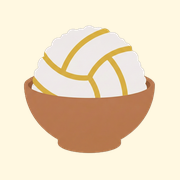
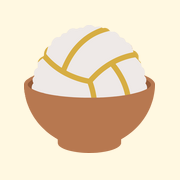
feat: 새 로고 적용 — 파비콘·OG·랠리 끝 로고 윤곽 (#4)
* feat: 새 로고 적용 — 파비콘·OG·랠리 끝 로고 윤곽

누룽지도 앱·웹(2.13.0)의 새 로고(그릇·누룽지는 그대로, 이음선 조각이 고른 배구공)로 바꾼다.

- 파비콘 32/96/192 · apple-touch 180: 예전과 같은 크기·여백으로 새 로고 PNG 에서 다시 뽑음
- og.png: 같은 구도(크림 + 누룽지 · 한 줄 소개 + 오른쪽 로고)로 HTML 에서 다시 렌더.
  원본 HTML 을 docs/og/og.html 에 남김
- index.html LOGO: 랠리 끝에 피어나는 로고 윤곽을 새 로고에서 색 영역별로 다시 추출.
  공·그릇 실루엣 크기가 예전과 같아 자리 값(LOGO_*)은 그대로

Claude-Session: https://claude.ai/code/session_019Jth2i6XR1aaqqSu7PWwxn

* copy: 한 줄 소개를 '배구, 더 많은 사람이 좋아했으면 좋겠어요'로

'생활배구에 첫 물꼬를 트는 사람'보다 하려는 일에 맞게 — 본문 마지막 답
(배구를 더 많은 사람들이 좋아해줬으면 좋겠어요)과 같은 말로 맞춘다.
OG 이미지·meta description·og:description.

Claude-Session: https://claude.ai/code/session_019Jth2i6XR1aaqqSu7PWwxn

---------

diff --git a/index.html b/index.html
@@ -4,9 +4,9 @@
   <meta charset="UTF-8">
   <meta name="viewport" content="width=device-width, initial-scale=1.0">
   <title>누룽지 — nulloongzi</title>
-  <meta name="description" content="생활배구에 첫 물꼬를 트는 사람, 누룽지. 서브부터 꽂힘까지, 인터뷰로 읽는 누룽지 — 그리고 누룽지도(배구 동호회 지도).">
+  <meta name="description" content="배구, 더 많은 사람이 좋아했으면 좋겠어요 — 누룽지. 서브부터 꽂힘까지, 인터뷰로 읽는 누룽지 — 그리고 누룽지도(배구 동호회 지도).">
   <meta property="og:title" content="누룽지의 랠리 — nulloongzi">
-  <meta property="og:description" content="서브부터 꽂힘까지, 인터뷰로 읽는 누룽지. 생활배구에 첫 물꼬를 트는 것들을 만듭니다.">
+  <meta property="og:description" content="서브부터 꽂힘까지, 인터뷰로 읽는 누룽지. 배구를 더 많은 사람이 좋아했으면 해서 만듭니다.">
   <meta property="og:url" content="https://nulloongzi.com/">
   <meta property="og:type" content="website">
   <meta property="og:image" content="https://nulloongzi.com/assets/og.png">
@@ -859,8 +859,10 @@
 
     // ── 로고: 밥그릇에 담긴 배구공 ──
     // 내가 임의로 그린 게 아니라 실제 로고 PNG 에서 색 영역별 윤곽을 뽑은 것이다.
+    // 2026-10-23 새 로고(이음선 조각이 고른 배구공)로 다시 뽑음 — 앱 레포 assets/nulloongzido logo_without bg.png.
+    // 공 = 흰 판+이음선 실루엣, 이음선 = 금색, 그릇 = 몸통+테. 그릇·공 실루엣 크기는 예전과 같아 LOGO_* 자리 값은 그대로.
     // 좌표계는 폭 1, 원점 중심, y 위가 +. 화면을 향하는 빌보드로 세운다.
-    var LOGO = {"ball":[[[-0.016,0.487],[-0.006,0.487],[0.005,0.487],[0.014,0.485],[0.023,0.482],[0.032,0.478],[0.04,0.472],[0.05,0.474],[0.059,0.476],[0.069,0.477],[0.079,0.475],[0.088,0.472],[0.096,0.467],[0.1,0.462],[0.11,0.464],[0.119,0.466],[0.129,0.464],[0.137,0.459],[0.144,0.452],[0.151,0.446],[0.15,0.438],[0.146,0.434],[0.155,0.437],[0.161,0.436],[0.171,0.436],[0.181,0.436],[0.191,0.435],[0.2,0.432],[0.208,0.427],[0.215,0.42],[0.221,0.412],[0.226,0.404],[0.231,0.396],[0.239,0.392],[0.249,0.39],[0.258,0.386],[0.265,0.381],[0.27,0.373],[0.273,0.364],[0.281,0.358],[0.29,0.354],[0.299,0.351],[0.307,0.345],[0.313,0.337],[0.309,0.333],[0.317,0.331],[0.321,0.322],[0.322,0.312],[0.325,0.306],[0.328,0.302],[0.324,0.298],[0.333,0.294],[0.341,0.29],[0.35,0.287],[0.358,0.279],[0.364,0.272],[0.368,0.263],[0.373,0.255],[0.373,0.244],[0.373,0.234],[0.373,0.224],[0.379,0.216],[0.386,0.208],[0.392,0.201],[0.392,0.19],[0.394,0.181],[0.396,0.171],[0.403,0.165],[0.411,0.158],[0.415,0.149],[0.418,0.14],[0.419,0.13],[0.419,0.12],[0.419,0.11],[0.417,0.105],[0.421,0.097],[0.426,0.09],[0.43,0.082],[0.432,0.075],[0.436,0.079],[0.435,0.072],[0.432,0.062],[0.429,0.053],[0.426,0.044],[0.43,0.036],[0.434,0.027],[0.436,0.018],[0.438,0.008],[0.434,-0.0],[0.429,-0.002],[0.423,-0.004],[0.417,-0.006],[0.41,-0.011],[0.402,-0.012],[0.395,-0.015],[0.387,-0.019],[0.381,-0.022],[0.375,-0.024],[0.368,-0.026],[0.36,-0.026],[0.353,-0.027],[0.347,-0.029],[0.34,-0.031],[0.331,-0.033],[0.323,-0.037],[0.315,-0.038],[0.307,-0.037],[0.3,-0.039],[0.291,-0.043],[0.281,-0.045],[0.271,-0.046],[0.262,-0.048],[0.252,-0.05],[0.243,-0.048],[0.235,-0.05],[0.225,-0.051],[0.217,-0.052],[0.207,-0.052],[0.199,-0.054],[0.189,-0.054],[0.18,-0.057],[0.171,-0.056],[0.161,-0.058],[0.153,-0.058],[0.142,-0.058],[0.133,-0.061],[0.124,-0.061],[0.114,-0.061],[0.103,-0.061],[0.094,-0.063],[0.085,-0.065],[0.074,-0.065],[0.064,-0.065],[0.053,-0.065],[0.046,-0.062],[0.041,-0.063],[0.031,-0.063],[0.02,-0.063],[0.011,-0.065],[0.0,-0.065],[-0.01,-0.065],[-0.02,-0.065],[-0.03,-0.063],[-0.04,-0.063],[-0.05,-0.063],[-0.061,-0.063],[-0.071,-0.063],[-0.081,-0.063],[-0.091,-0.065],[-0.1,-0.061],[-0.11,-0.061],[-0.12,-0.061],[-0.13,-0.063],[-0.138,-0.058],[-0.149,-0.058],[-0.158,-0.061],[-0.167,-0.056],[-0.177,-0.056],[-0.186,-0.056],[-0.195,-0.054],[-0.205,-0.056],[-0.213,-0.052],[-0.223,-0.053],[-0.231,-0.05],[-0.241,-0.052],[-0.247,-0.05],[-0.257,-0.049],[-0.267,-0.048],[-0.276,-0.046],[-0.286,-0.044],[-0.296,-0.042],[-0.305,-0.041],[-0.315,-0.039],[-0.325,-0.037],[-0.334,-0.035],[-0.343,-0.033],[-0.353,-0.031],[-0.359,-0.023],[-0.366,-0.016],[-0.374,-0.01],[-0.381,-0.003],[-0.389,0.003],[-0.397,0.01],[-0.404,0.018],[-0.411,0.025],[-0.419,0.032],[-0.425,0.04],[-0.43,0.048],[-0.434,0.057],[-0.436,0.066],[-0.436,0.077],[-0.433,0.085],[-0.428,0.094],[-0.422,0.101],[-0.424,0.109],[-0.425,0.119],[-0.424,0.128],[-0.421,0.138],[-0.417,0.146],[-0.411,0.154],[-0.402,0.158],[-0.396,0.165],[-0.396,0.173],[-0.396,0.184],[-0.396,0.194],[-0.396,0.204],[-0.392,0.213],[-0.388,0.222],[-0.383,0.23],[-0.376,0.237],[-0.367,0.242],[-0.362,0.241],[-0.356,0.247],[-0.347,0.25],[-0.347,0.258],[-0.347,0.269],[-0.347,0.279],[-0.344,0.288],[-0.34,0.297],[-0.336,0.305],[-0.329,0.313],[-0.321,0.32],[-0.313,0.326],[-0.304,0.328],[-0.296,0.333],[-0.292,0.342],[-0.29,0.351],[-0.288,0.361],[-0.283,0.369],[-0.277,0.377],[-0.271,0.383],[-0.263,0.39],[-0.254,0.394],[-0.245,0.396],[-0.234,0.396],[-0.225,0.398],[-0.218,0.405],[-0.214,0.414],[-0.207,0.421],[-0.198,0.424],[-0.188,0.426],[-0.179,0.428],[-0.172,0.433],[-0.167,0.441],[-0.16,0.449],[-0.153,0.455],[-0.144,0.46],[-0.135,0.462],[-0.124,0.462],[-0.114,0.46],[-0.104,0.46],[-0.096,0.46],[-0.087,0.463],[-0.078,0.466],[-0.068,0.468],[-0.059,0.466],[-0.049,0.466],[-0.041,0.473],[-0.034,0.48],[-0.025,0.485]]],"seam":[[[0.111,0.466],[0.123,0.464],[0.135,0.46],[0.144,0.452],[0.152,0.443],[0.143,0.436],[0.131,0.433],[0.12,0.43],[0.109,0.426],[0.097,0.422],[0.086,0.417],[0.075,0.413],[0.064,0.409],[0.053,0.404],[0.043,0.398],[0.033,0.392],[0.022,0.387],[0.011,0.381],[0.002,0.373],[-0.009,0.367],[-0.018,0.36],[-0.029,0.354],[-0.038,0.346],[-0.047,0.337],[-0.057,0.329],[-0.066,0.32],[-0.075,0.311],[-0.084,0.302],[-0.093,0.293],[-0.101,0.283],[-0.11,0.274],[-0.118,0.265],[-0.124,0.254],[-0.131,0.244],[-0.137,0.234],[-0.143,0.224],[-0.15,0.214],[-0.156,0.203],[-0.162,0.193],[-0.166,0.182],[-0.171,0.171],[-0.175,0.16],[-0.182,0.15],[-0.183,0.138],[-0.172,0.133],[-0.161,0.127],[-0.15,0.124],[-0.139,0.12],[-0.127,0.117],[-0.116,0.114],[-0.104,0.111],[-0.092,0.109],[-0.08,0.107],[-0.068,0.105],[-0.055,0.105],[-0.042,0.105],[-0.029,0.105],[-0.017,0.105],[-0.01,0.115],[-0.003,0.125],[0.003,0.135],[0.009,0.145],[0.016,0.156],[0.022,0.166],[0.029,0.176],[0.037,0.185],[0.046,0.195],[0.053,0.204],[0.063,0.213],[0.072,0.222],[0.081,0.23],[0.09,0.239],[0.1,0.247],[0.11,0.254],[0.12,0.262],[0.13,0.268],[0.14,0.274],[0.151,0.28],[0.161,0.286],[0.171,0.292],[0.182,0.297],[0.193,0.301],[0.204,0.306],[0.215,0.311],[0.227,0.314],[0.238,0.317],[0.25,0.32],[0.261,0.324],[0.273,0.326],[0.285,0.328],[0.297,0.33],[0.309,0.332],[0.319,0.329],[0.322,0.317],[0.324,0.305],[0.327,0.296],[0.314,0.296],[0.302,0.294],[0.29,0.292],[0.278,0.29],[0.266,0.288],[0.255,0.283],[0.243,0.281],[0.232,0.277],[0.221,0.274],[0.21,0.269],[0.199,0.264],[0.188,0.26],[0.178,0.254],[0.169,0.246],[0.177,0.237],[0.185,0.227],[0.193,0.217],[0.2,0.208],[0.206,0.197],[0.212,0.187],[0.22,0.177],[0.226,0.167],[0.232,0.157],[0.237,0.146],[0.243,0.135],[0.247,0.124],[0.252,0.113],[0.256,0.102],[0.261,0.091],[0.264,0.08],[0.269,0.069],[0.273,0.058],[0.275,0.046],[0.279,0.035],[0.281,0.023],[0.283,0.011],[0.286,-0.001],[0.288,-0.013],[0.29,-0.025],[0.29,-0.038],[0.284,-0.044],[0.272,-0.046],[0.26,-0.048],[0.254,-0.04],[0.254,-0.028],[0.252,-0.016],[0.249,-0.004],[0.247,0.008],[0.245,0.02],[0.242,0.032],[0.239,0.043],[0.235,0.055],[0.231,0.066],[0.228,0.078],[0.224,0.088],[0.219,0.099],[0.213,0.11],[0.208,0.121],[0.203,0.131],[0.198,0.142],[0.192,0.152],[0.186,0.163],[0.179,0.173],[0.172,0.183],[0.164,0.192],[0.158,0.203],[0.15,0.212],[0.142,0.222],[0.131,0.225],[0.122,0.217],[0.112,0.209],[0.103,0.2],[0.094,0.191],[0.084,0.184],[0.076,0.174],[0.067,0.165],[0.06,0.155],[0.054,0.145],[0.046,0.135],[0.039,0.125],[0.032,0.115],[0.027,0.105],[0.022,0.094],[0.025,0.084],[0.031,0.073],[0.037,0.063],[0.044,0.053],[0.048,0.042],[0.054,0.032],[0.058,0.02],[0.063,0.009],[0.067,-0.002],[0.071,-0.013],[0.074,-0.025],[0.077,-0.036],[0.08,-0.048],[0.082,-0.06],[0.09,-0.065],[0.077,-0.065],[0.064,-0.065],[0.051,-0.065],[0.044,-0.058],[0.041,-0.046],[0.039,-0.034],[0.036,-0.023],[0.033,-0.011],[0.028,-0.0],[0.023,0.011],[0.018,0.021],[0.013,0.032],[0.007,0.042],[0.001,0.053],[-0.005,0.063],[-0.014,0.071],[-0.026,0.069],[-0.038,0.069],[-0.051,0.069],[-0.064,0.069],[-0.076,0.071],[-0.089,0.071],[-0.101,0.073],[-0.113,0.075],[-0.125,0.078],[-0.136,0.082],[-0.148,0.084],[-0.159,0.088],[-0.17,0.092],[-0.181,0.097],[-0.192,0.101],[-0.203,0.107],[-0.214,0.112],[-0.224,0.118],[-0.234,0.124],[-0.245,0.13],[-0.254,0.137],[-0.265,0.144],[-0.274,0.151],[-0.284,0.159],[-0.293,0.168],[-0.303,0.175],[-0.312,0.184],[-0.321,0.194],[-0.328,0.203],[-0.336,0.213],[-0.344,0.223],[-0.351,0.232],[-0.359,0.242],[-0.354,0.249],[-0.345,0.255],[-0.347,0.267],[-0.347,0.28],[-0.343,0.285],[-0.336,0.275],[-0.33,0.264],[-0.322,0.254],[-0.315,0.245],[-0.307,0.235],[-0.3,0.225],[-0.291,0.216],[-0.281,0.207],[-0.272,0.198],[-0.263,0.19],[-0.254,0.182],[-0.244,0.174],[-0.234,0.167],[-0.224,0.16],[-0.215,0.163],[-0.21,0.174],[-0.205,0.184],[-0.201,0.195],[-0.195,0.206],[-0.19,0.217],[-0.185,0.227],[-0.178,0.238],[-0.172,0.248],[-0.166,0.258],[-0.16,0.269],[-0.153,0.278],[-0.145,0.288],[-0.138,0.298],[-0.13,0.307],[-0.122,0.317],[-0.113,0.326],[-0.104,0.335],[-0.095,0.344],[-0.086,0.353],[-0.076,0.361],[-0.067,0.37],[-0.058,0.378],[-0.048,0.385],[-0.038,0.392],[-0.028,0.399],[-0.017,0.405],[-0.008,0.413],[0.003,0.417],[0.014,0.423],[0.024,0.429],[0.035,0.434],[0.045,0.44],[0.056,0.445],[0.067,0.449],[0.078,0.453],[0.089,0.458],[0.1,0.462]],[[-0.424,0.099],[-0.424,0.097],[-0.423,0.096],[-0.421,0.094],[-0.421,0.093],[-0.42,0.091],[-0.419,0.09],[-0.418,0.089],[-0.417,0.087],[-0.417,0.086],[-0.416,0.084],[-0.414,0.083],[-0.413,0.082],[-0.412,0.081],[-0.411,0.079],[-0.409,0.078],[-0.408,0.077],[-0.407,0.076],[-0.407,0.074],[-0.406,0.073],[-0.405,0.071],[-0.403,0.07],[-0.402,0.069],[-0.401,0.068],[-0.4,0.066],[-0.398,0.065],[-0.397,0.064],[-0.396,0.062],[-0.396,0.061],[-0.395,0.059],[-0.394,0.058],[-0.392,0.057],[-0.391,0.056],[-0.39,0.054],[-0.389,0.053],[-0.387,0.052],[-0.386,0.051],[-0.385,0.049],[-0.384,0.048],[-0.382,0.047],[-0.381,0.046],[-0.38,0.044],[-0.379,0.043],[-0.377,0.042],[-0.376,0.041],[-0.375,0.039],[-0.374,0.038],[-0.372,0.037],[-0.371,0.036],[-0.37,0.034],[-0.369,0.033],[-0.367,0.032],[-0.366,0.031],[-0.365,0.029],[-0.364,0.028],[-0.362,0.027],[-0.361,0.026],[-0.36,0.024],[-0.358,0.024],[-0.357,0.023],[-0.356,0.022],[-0.354,0.021],[-0.353,0.02],[-0.352,0.018],[-0.351,0.017],[-0.349,0.016],[-0.348,0.015],[-0.347,0.013],[-0.346,0.012],[-0.344,0.012],[-0.342,0.011],[-0.341,0.01],[-0.34,0.009],[-0.339,0.007],[-0.337,0.006],[-0.336,0.005],[-0.335,0.004],[-0.333,0.003],[-0.332,0.003],[-0.331,0.001],[-0.329,0.0],[-0.328,-0.001],[-0.327,-0.002],[-0.325,-0.003],[-0.324,-0.003],[-0.322,-0.004],[-0.321,-0.006],[-0.32,-0.007],[-0.319,-0.008],[-0.317,-0.009],[-0.316,-0.01],[-0.314,-0.01],[-0.313,-0.012],[-0.312,-0.013],[-0.31,-0.014],[-0.309,-0.014],[-0.307,-0.015],[-0.306,-0.016],[-0.305,-0.018],[-0.303,-0.018],[-0.302,-0.019],[-0.301,-0.02],[-0.299,-0.021],[-0.298,-0.022],[-0.296,-0.022],[-0.295,-0.023],[-0.294,-0.025],[-0.293,-0.026],[-0.291,-0.027],[-0.289,-0.027],[-0.288,-0.028],[-0.287,-0.029],[-0.285,-0.029],[-0.284,-0.03],[-0.283,-0.032],[-0.281,-0.033],[-0.28,-0.033],[-0.278,-0.034],[-0.277,-0.035],[-0.275,-0.035],[-0.274,-0.036],[-0.272,-0.037],[-0.271,-0.037],[-0.269,-0.038],[-0.268,-0.039],[-0.266,-0.039],[-0.265,-0.041],[-0.264,-0.041],[-0.262,-0.042],[-0.261,-0.043],[-0.259,-0.044],[-0.258,-0.045],[-0.257,-0.046],[-0.255,-0.046],[-0.254,-0.048],[-0.252,-0.048],[-0.251,-0.049],[-0.249,-0.05],[-0.248,-0.05],[-0.249,-0.05],[-0.251,-0.05],[-0.252,-0.05],[-0.254,-0.05],[-0.256,-0.05],[-0.257,-0.049],[-0.258,-0.048],[-0.26,-0.048],[-0.262,-0.048],[-0.264,-0.048],[-0.266,-0.048],[-0.267,-0.048],[-0.269,-0.047],[-0.27,-0.046],[-0.272,-0.046],[-0.273,-0.046],[-0.275,-0.046],[-0.277,-0.046],[-0.279,-0.046],[-0.281,-0.046],[-0.282,-0.046],[-0.284,-0.045],[-0.285,-0.044],[-0.287,-0.044],[-0.288,-0.044],[-0.29,-0.044],[-0.292,-0.044],[-0.294,-0.044],[-0.295,-0.042],[-0.296,-0.041],[-0.298,-0.041],[-0.3,-0.041],[-0.302,-0.041],[-0.303,-0.041],[-0.305,-0.041],[-0.306,-0.04],[-0.308,-0.039],[-0.31,-0.039],[-0.311,-0.039],[-0.313,-0.039],[-0.315,-0.039],[-0.317,-0.039],[-0.318,-0.039],[-0.319,-0.037],[-0.321,-0.037],[-0.323,-0.037],[-0.325,-0.037],[-0.326,-0.037],[-0.328,-0.037],[-0.329,-0.036],[-0.331,-0.035],[-0.333,-0.035],[-0.334,-0.035],[-0.336,-0.035],[-0.338,-0.034],[-0.339,-0.033],[-0.341,-0.033],[-0.342,-0.033],[-0.344,-0.033],[-0.346,-0.032],[-0.347,-0.031],[-0.349,-0.031],[-0.35,-0.031],[-0.352,-0.031],[-0.354,-0.03],[-0.354,-0.029],[-0.355,-0.027],[-0.356,-0.026],[-0.357,-0.025],[-0.358,-0.024],[-0.36,-0.022],[-0.361,-0.021],[-0.362,-0.02],[-0.363,-0.019],[-0.365,-0.017],[-0.366,-0.016],[-0.368,-0.016],[-0.369,-0.015],[-0.37,-0.014],[-0.372,-0.013],[-0.373,-0.011],[-0.374,-0.01],[-0.375,-0.009],[-0.377,-0.008],[-0.378,-0.006],[-0.379,-0.005],[-0.38,-0.004],[-0.382,-0.003],[-0.383,-0.001],[-0.384,-0.001],[-0.386,-0.0],[-0.387,0.001],[-0.388,0.002],[-0.39,0.003],[-0.391,0.005],[-0.392,0.006],[-0.393,0.007],[-0.395,0.008],[-0.396,0.01],[-0.397,0.011],[-0.398,0.012],[-0.4,0.013],[-0.401,0.014],[-0.402,0.016],[-0.403,0.017],[-0.405,0.018],[-0.406,0.019],[-0.407,0.021],[-0.408,0.022],[-0.41,0.023],[-0.411,0.024],[-0.412,0.026],[-0.413,0.027],[-0.415,0.028],[-0.416,0.029],[-0.417,0.031],[-0.418,0.032],[-0.42,0.033],[-0.421,0.034],[-0.421,0.036],[-0.422,0.038],[-0.423,0.039],[-0.424,0.04],[-0.426,0.041],[-0.427,0.043],[-0.428,0.044],[-0.429,0.045],[-0.43,0.047],[-0.43,0.048],[-0.432,0.049],[-0.432,0.051],[-0.433,0.053],[-0.434,0.054],[-0.434,0.055],[-0.434,0.057],[-0.434,0.059],[-0.434,0.061],[-0.434,0.063],[-0.435,0.064],[-0.436,0.065],[-0.436,0.067],[-0.436,0.069],[-0.436,0.07],[-0.436,0.072],[-0.436,0.074],[-0.436,0.076],[-0.436,0.078],[-0.436,0.079],[-0.435,0.081],[-0.434,0.082],[-0.434,0.084],[-0.433,0.085],[-0.432,0.086],[-0.432,0.088],[-0.431,0.089],[-0.43,0.091],[-0.43,0.092],[-0.429,0.094],[-0.427,0.095],[-0.426,0.096],[-0.425,0.097]]],"bowl":[[[0.419,0.103],[0.432,0.097],[0.445,0.092],[0.457,0.084],[0.47,0.077],[0.481,0.067],[0.491,0.057],[0.497,0.044],[0.498,0.029],[0.498,0.014],[0.496,-0.001],[0.494,-0.015],[0.492,-0.029],[0.489,-0.044],[0.487,-0.058],[0.483,-0.072],[0.481,-0.086],[0.476,-0.1],[0.471,-0.113],[0.466,-0.126],[0.461,-0.139],[0.455,-0.152],[0.449,-0.165],[0.443,-0.178],[0.436,-0.19],[0.428,-0.202],[0.42,-0.214],[0.413,-0.226],[0.404,-0.238],[0.395,-0.25],[0.386,-0.261],[0.377,-0.273],[0.366,-0.284],[0.355,-0.295],[0.344,-0.305],[0.334,-0.316],[0.322,-0.325],[0.311,-0.335],[0.299,-0.343],[0.287,-0.352],[0.275,-0.36],[0.263,-0.368],[0.251,-0.375],[0.239,-0.383],[0.239,-0.399],[0.239,-0.414],[0.233,-0.427],[0.223,-0.438],[0.21,-0.446],[0.198,-0.452],[0.185,-0.458],[0.171,-0.462],[0.158,-0.466],[0.144,-0.47],[0.13,-0.473],[0.116,-0.476],[0.102,-0.479],[0.087,-0.481],[0.072,-0.482],[0.058,-0.483],[0.043,-0.485],[0.028,-0.485],[0.012,-0.485],[-0.003,-0.485],[-0.018,-0.485],[-0.033,-0.485],[-0.049,-0.485],[-0.063,-0.483],[-0.078,-0.481],[-0.093,-0.48],[-0.107,-0.479],[-0.121,-0.475],[-0.135,-0.472],[-0.15,-0.47],[-0.163,-0.466],[-0.177,-0.462],[-0.19,-0.458],[-0.203,-0.451],[-0.216,-0.445],[-0.228,-0.437],[-0.239,-0.426],[-0.243,-0.412],[-0.242,-0.397],[-0.243,-0.384],[-0.255,-0.376],[-0.267,-0.368],[-0.279,-0.36],[-0.291,-0.352],[-0.303,-0.344],[-0.315,-0.335],[-0.326,-0.326],[-0.338,-0.316],[-0.348,-0.306],[-0.359,-0.295],[-0.37,-0.284],[-0.381,-0.273],[-0.39,-0.262],[-0.399,-0.25],[-0.409,-0.239],[-0.417,-0.227],[-0.424,-0.215],[-0.432,-0.203],[-0.44,-0.19],[-0.446,-0.178],[-0.453,-0.165],[-0.459,-0.152],[-0.464,-0.139],[-0.469,-0.126],[-0.475,-0.113],[-0.479,-0.099],[-0.483,-0.086],[-0.487,-0.072],[-0.491,-0.059],[-0.493,-0.044],[-0.496,-0.03],[-0.498,-0.015],[-0.5,-0.001],[-0.5,0.014],[-0.5,0.03],[-0.499,0.045],[-0.493,0.057],[-0.483,0.069],[-0.472,0.077],[-0.459,0.084],[-0.447,0.092],[-0.434,0.097],[-0.424,0.097],[-0.432,0.086],[-0.436,0.075],[-0.436,0.06],[-0.432,0.071],[-0.432,0.067],[-0.425,0.058],[-0.431,0.048],[-0.438,0.037],[-0.444,0.026],[-0.446,0.017],[-0.444,0.003],[-0.432,-0.005],[-0.419,-0.01],[-0.406,-0.016],[-0.393,-0.02],[-0.379,-0.024],[-0.366,-0.029],[-0.351,-0.031],[-0.337,-0.034],[-0.323,-0.037],[-0.309,-0.039],[-0.295,-0.043],[-0.281,-0.046],[-0.266,-0.048],[-0.251,-0.048],[-0.238,-0.053],[-0.223,-0.054],[-0.209,-0.056],[-0.194,-0.058],[-0.179,-0.059],[-0.164,-0.061],[-0.15,-0.063],[-0.135,-0.063],[-0.12,-0.065],[-0.105,-0.065],[-0.09,-0.065],[-0.075,-0.065],[-0.06,-0.067],[-0.045,-0.067],[-0.029,-0.067],[-0.014,-0.067],[0.001,-0.067],[0.017,-0.067],[0.032,-0.067],[0.046,-0.065],[0.062,-0.065],[0.077,-0.065],[0.092,-0.065],[0.108,-0.065],[0.122,-0.063],[0.137,-0.063],[0.152,-0.062],[0.167,-0.061],[0.182,-0.058],[0.197,-0.058],[0.211,-0.056],[0.226,-0.054],[0.24,-0.052],[0.254,-0.049],[0.254,-0.035],[0.254,-0.029],[0.256,-0.043],[0.267,-0.047],[0.282,-0.045],[0.297,-0.044],[0.311,-0.041],[0.325,-0.037],[0.339,-0.035],[0.353,-0.031],[0.366,-0.027],[0.38,-0.023],[0.393,-0.018],[0.407,-0.014],[0.42,-0.009],[0.433,-0.003],[0.441,0.008],[0.439,0.02],[0.438,0.03],[0.433,0.04],[0.431,0.051],[0.434,0.063],[0.434,0.079],[0.428,0.091]]]};
+    var LOGO = {"ball":[[[-0.0,0.488],[0.009,0.488],[0.018,0.485],[0.026,0.482],[0.034,0.477],[0.042,0.473],[0.051,0.474],[0.06,0.475],[0.07,0.475],[0.08,0.475],[0.088,0.473],[0.096,0.467],[0.104,0.464],[0.113,0.466],[0.123,0.466],[0.132,0.463],[0.14,0.459],[0.147,0.452],[0.154,0.446],[0.16,0.439],[0.169,0.437],[0.179,0.437],[0.188,0.437],[0.197,0.434],[0.205,0.43],[0.212,0.424],[0.219,0.417],[0.224,0.41],[0.229,0.402],[0.235,0.394],[0.244,0.393],[0.252,0.39],[0.261,0.386],[0.268,0.38],[0.273,0.372],[0.276,0.364],[0.282,0.357],[0.291,0.354],[0.299,0.351],[0.307,0.346],[0.313,0.338],[0.319,0.331],[0.324,0.323],[0.327,0.315],[0.328,0.307],[0.331,0.298],[0.338,0.293],[0.347,0.289],[0.354,0.284],[0.361,0.277],[0.367,0.27],[0.372,0.262],[0.375,0.254],[0.375,0.244],[0.375,0.234],[0.375,0.224],[0.38,0.217],[0.386,0.21],[0.392,0.202],[0.394,0.194],[0.396,0.184],[0.397,0.175],[0.402,0.167],[0.409,0.161],[0.415,0.154],[0.419,0.146],[0.422,0.137],[0.422,0.128],[0.422,0.118],[0.421,0.109],[0.419,0.101],[0.425,0.094],[0.43,0.087],[0.433,0.078],[0.434,0.069],[0.434,0.06],[0.431,0.051],[0.427,0.043],[0.433,0.035],[0.437,0.027],[0.439,0.018],[0.44,0.009],[0.438,0.0],[0.43,-0.004],[0.421,-0.008],[0.413,-0.011],[0.405,-0.014],[0.396,-0.018],[0.388,-0.02],[0.379,-0.023],[0.37,-0.026],[0.362,-0.028],[0.353,-0.031],[0.344,-0.032],[0.335,-0.035],[0.326,-0.037],[0.317,-0.039],[0.308,-0.041],[0.299,-0.043],[0.29,-0.044],[0.281,-0.046],[0.272,-0.047],[0.263,-0.049],[0.253,-0.05],[0.244,-0.051],[0.235,-0.053],[0.226,-0.054],[0.217,-0.055],[0.207,-0.056],[0.198,-0.057],[0.188,-0.058],[0.179,-0.058],[0.169,-0.059],[0.16,-0.06],[0.151,-0.061],[0.141,-0.062],[0.132,-0.062],[0.122,-0.063],[0.113,-0.064],[0.103,-0.064],[0.094,-0.065],[0.084,-0.065],[0.074,-0.066],[0.065,-0.066],[0.055,-0.066],[0.045,-0.066],[0.036,-0.066],[0.026,-0.066],[0.016,-0.066],[0.006,-0.066],[-0.003,-0.066],[-0.013,-0.066],[-0.023,-0.066],[-0.033,-0.066],[-0.042,-0.066],[-0.052,-0.066],[-0.062,-0.066],[-0.071,-0.066],[-0.081,-0.065],[-0.091,-0.065],[-0.1,-0.064],[-0.11,-0.064],[-0.119,-0.063],[-0.129,-0.062],[-0.138,-0.062],[-0.148,-0.061],[-0.157,-0.061],[-0.166,-0.059],[-0.176,-0.059],[-0.185,-0.058],[-0.195,-0.057],[-0.204,-0.056],[-0.214,-0.055],[-0.223,-0.054],[-0.232,-0.053],[-0.241,-0.051],[-0.25,-0.051],[-0.259,-0.049],[-0.269,-0.048],[-0.278,-0.047],[-0.287,-0.045],[-0.296,-0.043],[-0.305,-0.042],[-0.314,-0.04],[-0.323,-0.038],[-0.332,-0.036],[-0.341,-0.034],[-0.35,-0.031],[-0.358,-0.029],[-0.367,-0.027],[-0.375,-0.025],[-0.384,-0.022],[-0.393,-0.019],[-0.401,-0.016],[-0.41,-0.013],[-0.418,-0.009],[-0.426,-0.006],[-0.434,-0.002],[-0.442,0.004],[-0.442,0.013],[-0.44,0.022],[-0.437,0.031],[-0.433,0.039],[-0.429,0.046],[-0.433,0.055],[-0.434,0.064],[-0.435,0.073],[-0.433,0.082],[-0.428,0.09],[-0.422,0.097],[-0.424,0.106],[-0.424,0.115],[-0.424,0.125],[-0.422,0.134],[-0.418,0.142],[-0.413,0.15],[-0.406,0.156],[-0.398,0.16],[-0.395,0.169],[-0.395,0.178],[-0.395,0.188],[-0.396,0.197],[-0.395,0.207],[-0.391,0.215],[-0.387,0.223],[-0.381,0.23],[-0.375,0.237],[-0.367,0.242],[-0.359,0.247],[-0.351,0.251],[-0.347,0.259],[-0.348,0.269],[-0.346,0.278],[-0.344,0.287],[-0.34,0.295],[-0.336,0.303],[-0.33,0.31],[-0.323,0.317],[-0.316,0.323],[-0.308,0.327],[-0.299,0.33],[-0.293,0.337],[-0.29,0.345],[-0.289,0.354],[-0.286,0.363],[-0.281,0.371],[-0.276,0.378],[-0.268,0.385],[-0.261,0.39],[-0.253,0.393],[-0.244,0.396],[-0.234,0.396],[-0.225,0.398],[-0.218,0.404],[-0.214,0.412],[-0.208,0.419],[-0.2,0.424],[-0.19,0.425],[-0.181,0.427],[-0.173,0.43],[-0.168,0.438],[-0.163,0.446],[-0.156,0.452],[-0.148,0.457],[-0.14,0.46],[-0.131,0.463],[-0.121,0.463],[-0.112,0.461],[-0.103,0.459],[-0.094,0.459],[-0.086,0.463],[-0.077,0.466],[-0.068,0.468],[-0.059,0.467],[-0.05,0.467],[-0.042,0.471],[-0.035,0.477],[-0.027,0.482],[-0.019,0.486],[-0.01,0.488]]],"seam":[[[0.093,0.469],[0.104,0.464],[0.116,0.466],[0.129,0.464],[0.14,0.459],[0.149,0.45],[0.151,0.443],[0.139,0.44],[0.127,0.436],[0.115,0.433],[0.104,0.429],[0.092,0.425],[0.081,0.421],[0.07,0.416],[0.059,0.411],[0.048,0.406],[0.037,0.401],[0.026,0.394],[0.016,0.388],[0.006,0.381],[-0.005,0.374],[-0.015,0.366],[-0.024,0.358],[-0.034,0.351],[-0.044,0.342],[-0.053,0.333],[-0.063,0.324],[-0.071,0.314],[-0.08,0.305],[-0.088,0.295],[-0.097,0.285],[-0.104,0.275],[-0.111,0.265],[-0.119,0.255],[-0.125,0.245],[-0.132,0.234],[-0.138,0.224],[-0.144,0.213],[-0.15,0.202],[-0.155,0.191],[-0.16,0.18],[-0.165,0.169],[-0.17,0.158],[-0.175,0.147],[-0.171,0.137],[-0.16,0.132],[-0.15,0.126],[-0.138,0.121],[-0.127,0.117],[-0.116,0.112],[-0.105,0.108],[-0.093,0.104],[-0.082,0.099],[-0.07,0.096],[-0.058,0.093],[-0.047,0.089],[-0.035,0.086],[-0.023,0.083],[-0.011,0.081],[-0.001,0.086],[0.008,0.095],[0.017,0.105],[0.026,0.114],[0.035,0.124],[0.045,0.132],[0.054,0.141],[0.064,0.15],[0.074,0.158],[0.084,0.166],[0.094,0.173],[0.104,0.181],[0.114,0.188],[0.124,0.195],[0.134,0.202],[0.145,0.208],[0.155,0.214],[0.166,0.22],[0.177,0.226],[0.188,0.231],[0.199,0.237],[0.21,0.242],[0.221,0.246],[0.232,0.251],[0.243,0.255],[0.255,0.26],[0.266,0.264],[0.278,0.267],[0.29,0.27],[0.302,0.273],[0.314,0.276],[0.326,0.279],[0.334,0.286],[0.338,0.292],[0.35,0.288],[0.359,0.279],[0.367,0.269],[0.372,0.259],[0.375,0.246],[0.375,0.233],[0.376,0.221],[0.385,0.211],[0.392,0.201],[0.386,0.204],[0.378,0.214],[0.369,0.223],[0.36,0.232],[0.351,0.241],[0.338,0.24],[0.326,0.237],[0.314,0.235],[0.302,0.232],[0.291,0.229],[0.279,0.225],[0.267,0.221],[0.256,0.217],[0.245,0.213],[0.233,0.208],[0.222,0.203],[0.211,0.198],[0.201,0.192],[0.206,0.182],[0.214,0.172],[0.221,0.162],[0.228,0.152],[0.235,0.141],[0.242,0.131],[0.248,0.12],[0.254,0.11],[0.26,0.099],[0.266,0.088],[0.271,0.077],[0.277,0.066],[0.281,0.055],[0.286,0.044],[0.29,0.033],[0.294,0.021],[0.298,0.01],[0.302,-0.002],[0.305,-0.014],[0.308,-0.026],[0.311,-0.038],[0.3,-0.043],[0.288,-0.045],[0.276,-0.047],[0.27,-0.038],[0.267,-0.027],[0.263,-0.015],[0.26,-0.003],[0.256,0.009],[0.252,0.02],[0.247,0.031],[0.243,0.042],[0.238,0.054],[0.232,0.064],[0.227,0.075],[0.221,0.086],[0.215,0.097],[0.209,0.107],[0.202,0.118],[0.195,0.128],[0.188,0.138],[0.181,0.148],[0.173,0.158],[0.165,0.168],[0.155,0.167],[0.145,0.16],[0.134,0.153],[0.124,0.146],[0.114,0.138],[0.104,0.13],[0.094,0.122],[0.085,0.114],[0.075,0.105],[0.066,0.097],[0.056,0.087],[0.047,0.078],[0.038,0.068],[0.029,0.059],[0.027,0.048],[0.031,0.037],[0.034,0.025],[0.038,0.013],[0.041,0.001],[0.044,-0.011],[0.047,-0.023],[0.049,-0.035],[0.051,-0.047],[0.053,-0.059],[0.045,-0.066],[0.033,-0.066],[0.019,-0.066],[0.012,-0.059],[0.01,-0.046],[0.007,-0.034],[0.005,-0.022],[0.002,-0.01],[-0.002,0.002],[-0.005,0.013],[-0.008,0.025],[-0.012,0.037],[-0.023,0.042],[-0.035,0.044],[-0.047,0.047],[-0.058,0.05],[-0.07,0.054],[-0.082,0.057],[-0.093,0.061],[-0.105,0.065],[-0.116,0.069],[-0.128,0.073],[-0.139,0.078],[-0.15,0.082],[-0.161,0.087],[-0.172,0.093],[-0.183,0.098],[-0.194,0.103],[-0.205,0.109],[-0.215,0.116],[-0.226,0.122],[-0.236,0.128],[-0.247,0.135],[-0.257,0.142],[-0.267,0.15],[-0.277,0.157],[-0.287,0.165],[-0.297,0.173],[-0.306,0.182],[-0.316,0.191],[-0.325,0.2],[-0.334,0.209],[-0.343,0.219],[-0.352,0.228],[-0.361,0.231],[-0.371,0.224],[-0.381,0.215],[-0.391,0.207],[-0.392,0.213],[-0.386,0.224],[-0.378,0.234],[-0.368,0.241],[-0.357,0.247],[-0.347,0.255],[-0.348,0.267],[-0.346,0.28],[-0.342,0.291],[-0.337,0.302],[-0.328,0.312],[-0.319,0.321],[-0.32,0.31],[-0.323,0.299],[-0.327,0.287],[-0.33,0.275],[-0.329,0.263],[-0.32,0.254],[-0.311,0.244],[-0.302,0.235],[-0.293,0.226],[-0.284,0.217],[-0.274,0.208],[-0.265,0.199],[-0.255,0.192],[-0.245,0.184],[-0.235,0.176],[-0.225,0.169],[-0.214,0.163],[-0.208,0.173],[-0.203,0.184],[-0.198,0.195],[-0.193,0.206],[-0.187,0.217],[-0.182,0.228],[-0.176,0.239],[-0.17,0.249],[-0.163,0.26],[-0.157,0.27],[-0.15,0.281],[-0.143,0.291],[-0.136,0.301],[-0.128,0.311],[-0.12,0.321],[-0.112,0.33],[-0.103,0.34],[-0.094,0.35],[-0.085,0.359],[-0.076,0.368],[-0.066,0.376],[-0.057,0.385],[-0.047,0.393],[-0.037,0.401],[-0.027,0.408],[-0.016,0.415],[-0.006,0.422],[0.004,0.428],[0.015,0.434],[0.026,0.44],[0.037,0.446],[0.048,0.451],[0.059,0.456],[0.07,0.46],[0.081,0.465]]],"bowl":[[[0.476,0.074],[0.487,0.063],[0.495,0.052],[0.5,0.039],[0.5,0.025],[0.5,0.01],[0.498,-0.004],[0.496,-0.018],[0.494,-0.032],[0.492,-0.046],[0.489,-0.059],[0.486,-0.073],[0.483,-0.086],[0.478,-0.099],[0.474,-0.112],[0.469,-0.125],[0.464,-0.138],[0.459,-0.15],[0.453,-0.163],[0.447,-0.175],[0.441,-0.187],[0.434,-0.199],[0.426,-0.211],[0.419,-0.222],[0.411,-0.234],[0.402,-0.245],[0.394,-0.256],[0.384,-0.267],[0.375,-0.278],[0.365,-0.289],[0.355,-0.299],[0.344,-0.309],[0.333,-0.319],[0.322,-0.328],[0.311,-0.337],[0.3,-0.346],[0.289,-0.354],[0.277,-0.362],[0.266,-0.369],[0.254,-0.376],[0.242,-0.384],[0.242,-0.399],[0.242,-0.413],[0.237,-0.426],[0.227,-0.436],[0.216,-0.445],[0.204,-0.452],[0.192,-0.458],[0.179,-0.462],[0.166,-0.467],[0.153,-0.47],[0.139,-0.474],[0.125,-0.476],[0.112,-0.479],[0.098,-0.481],[0.084,-0.483],[0.07,-0.484],[0.056,-0.486],[0.041,-0.486],[0.027,-0.487],[0.012,-0.487],[-0.003,-0.488],[-0.017,-0.487],[-0.032,-0.487],[-0.046,-0.486],[-0.06,-0.485],[-0.075,-0.484],[-0.089,-0.482],[-0.103,-0.48],[-0.117,-0.478],[-0.13,-0.475],[-0.144,-0.473],[-0.157,-0.47],[-0.171,-0.466],[-0.183,-0.461],[-0.196,-0.456],[-0.208,-0.45],[-0.22,-0.443],[-0.231,-0.434],[-0.239,-0.423],[-0.243,-0.41],[-0.243,-0.395],[-0.246,-0.381],[-0.258,-0.374],[-0.27,-0.367],[-0.282,-0.36],[-0.293,-0.352],[-0.304,-0.343],[-0.316,-0.335],[-0.327,-0.326],[-0.337,-0.316],[-0.348,-0.306],[-0.359,-0.296],[-0.369,-0.286],[-0.379,-0.275],[-0.388,-0.264],[-0.397,-0.253],[-0.406,-0.242],[-0.414,-0.23],[-0.422,-0.219],[-0.429,-0.207],[-0.436,-0.195],[-0.443,-0.183],[-0.449,-0.171],[-0.456,-0.159],[-0.461,-0.147],[-0.466,-0.134],[-0.472,-0.121],[-0.476,-0.109],[-0.481,-0.096],[-0.484,-0.082],[-0.488,-0.069],[-0.491,-0.056],[-0.493,-0.042],[-0.496,-0.028],[-0.497,-0.014],[-0.5,-0.0],[-0.5,0.014],[-0.5,0.029],[-0.499,0.043],[-0.493,0.056],[-0.484,0.067],[-0.473,0.075],[-0.461,0.082],[-0.449,0.09],[-0.437,0.096],[-0.425,0.103],[-0.427,0.092],[-0.433,0.08],[-0.434,0.066],[-0.432,0.053],[-0.431,0.041],[-0.438,0.029],[-0.442,0.016],[-0.44,0.002],[-0.428,-0.005],[-0.415,-0.011],[-0.403,-0.016],[-0.39,-0.02],[-0.377,-0.024],[-0.363,-0.028],[-0.351,-0.031],[-0.337,-0.035],[-0.324,-0.038],[-0.31,-0.041],[-0.297,-0.043],[-0.283,-0.046],[-0.269,-0.048],[-0.255,-0.05],[-0.242,-0.051],[-0.228,-0.054],[-0.214,-0.055],[-0.2,-0.057],[-0.185,-0.058],[-0.171,-0.059],[-0.157,-0.061],[-0.142,-0.062],[-0.128,-0.062],[-0.114,-0.063],[-0.099,-0.064],[-0.085,-0.065],[-0.07,-0.066],[-0.055,-0.066],[-0.041,-0.066],[-0.026,-0.066],[-0.011,-0.066],[0.003,-0.066],[0.018,-0.066],[0.033,-0.066],[0.047,-0.066],[0.062,-0.066],[0.077,-0.066],[0.091,-0.065],[0.106,-0.064],[0.12,-0.063],[0.135,-0.062],[0.149,-0.062],[0.163,-0.06],[0.177,-0.059],[0.192,-0.058],[0.206,-0.056],[0.22,-0.054],[0.234,-0.053],[0.248,-0.051],[0.262,-0.049],[0.276,-0.047],[0.29,-0.044],[0.303,-0.042],[0.317,-0.039],[0.33,-0.036],[0.344,-0.033],[0.357,-0.029],[0.371,-0.026],[0.384,-0.022],[0.397,-0.018],[0.409,-0.012],[0.422,-0.008],[0.434,-0.002],[0.44,0.01],[0.438,0.024],[0.432,0.036],[0.43,0.048],[0.434,0.061],[0.434,0.075],[0.429,0.088],[0.42,0.099],[0.428,0.1],[0.44,0.094],[0.453,0.088],[0.465,0.081]]]};
     var LOGO_AT = [-3.2, 0.95, 11];    // 밥그릇 자리 — resize 에서 화면 폭에 맞춰 조정
     // 로고 도형의 무게중심은 앵커에서 조금 비켜 있다. 가운데에 앉히려면 그만큼 되민다.
     var LOGO_DX = 29, LOGO_DY = -31;

diff --git a/docs/og/og.html b/docs/og/og.html
@@ -1,0 +1,21 @@
+<!doctype html><meta charset="utf-8">
+<style>
+@font-face{font-family:P;src:url(PretendardVariable.ttf) /* 앱 레포 assets/fonts/PretendardVariable.ttf 를 옆에 둔다 */;font-weight:100 900}
+*{margin:0;padding:0;box-sizing:border-box}
+html,body{width:1200px;height:630px;overflow:hidden}
+body{font-family:P;background:#fff8e1;position:relative;color:#4e342e;word-break:keep-all}
+.glow{position:absolute;inset:0;background:radial-gradient(520px 420px at 1010px 150px,rgba(250,199,16,.26),rgba(250,199,16,0) 70%)}
+.t{position:absolute;left:94px;top:146px;display:flex;align-items:baseline;gap:22px}
+.t b{font-size:88px;font-weight:800;letter-spacing:-.02em;line-height:1}
+.t span{font-size:34px;font-weight:500;color:#8d6e63;letter-spacing:-.01em}
+.bar{position:absolute;left:96px;top:261px;width:132px;height:10px;border-radius:5px;background:#fac710}
+.d{position:absolute;left:96px;top:306px;font-size:40px;font-weight:700;line-height:57px;letter-spacing:-.01em}
+.u{position:absolute;left:97px;top:462px;font-size:26px;font-weight:500;color:#8d6e63}
+img{position:absolute;left:765px;top:159px;width:318px;filter:drop-shadow(0 8px 36px rgba(78,52,46,.24))}
+</style>
+<div class="glow"></div>
+<div class="t"><b>누룽지</b><span>nulloongzi</span></div>
+<div class="bar"></div>
+<div class="d">배구, 더 많은 사람이<br>좋아했으면 좋겠어요.</div>
+<div class="u">nulloongzi.com</div>
+<img src="logo.png"><!-- 앱 레포 assets/nulloongzido logo_without bg.png 을 -trim 해서 옆에 둔다 -->

diff --git a/docs/handoff-pr-site.md b/docs/handoff-pr-site.md
@@ -38,7 +38,7 @@
 
 - AI 심판 프로젝트 카드 구체화 (지금은 "준비 중" 배지만)
 - 누룽지도 실적 노출(클럽 수·픽업 크루 수 등) — 단, PHILOSOPHY 가치필터 #1(랭킹·위상 금지)에 걸리지 않는 방식으로
-- ~~OG 이미지, 파비콘 정식화~~ ✅ 완료 (2026-08-05) — `assets/`에 OG 1200×630 + 파비콘 4종(32/96/192/apple-touch 180). 로고 원본은 앱 레포 `assets/nulloongzido logo_without bg.png`, OG는 크림 배경 + Pretendard로 HTML→스크린샷 방식 제작.
+- ~~OG 이미지, 파비콘 정식화~~ ✅ 완료 (2026-08-05) — `assets/`에 OG 1200×630 + 파비콘 4종(32/96/192/apple-touch 180). 로고 원본은 앱 레포 `assets/nulloongzido logo_without bg.png`, OG는 크림 배경 + Pretendard로 HTML→스크린샷 방식 제작. 2026-10-23 새 로고(이음선 조각이 고른 배구공)로 교체 — OG 원본 HTML은 `docs/og/og.html`(앱 레포의 Pretendard·로고 PNG를 옆에 두고 크롬 `--screenshot --window-size=1200,630`), 랠리 끝 로고 윤곽(`index.html` 의 `LOGO`)도 새 로고 PNG 에서 다시 뽑음.
 - 인스타 피드/릴스 임베드 — 웹 레포 `js/insta-embed.js`에 선례 있음
 
 ## 관련 문서
